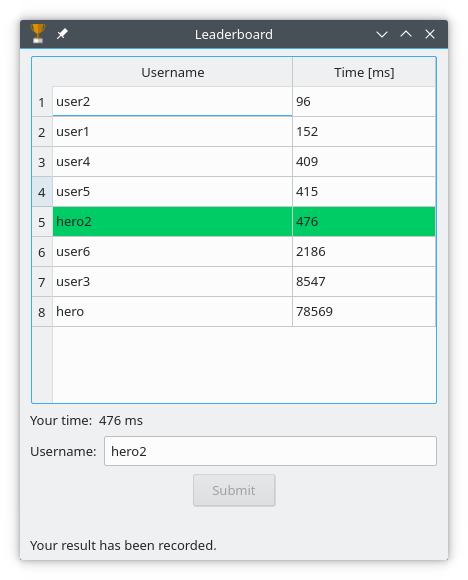
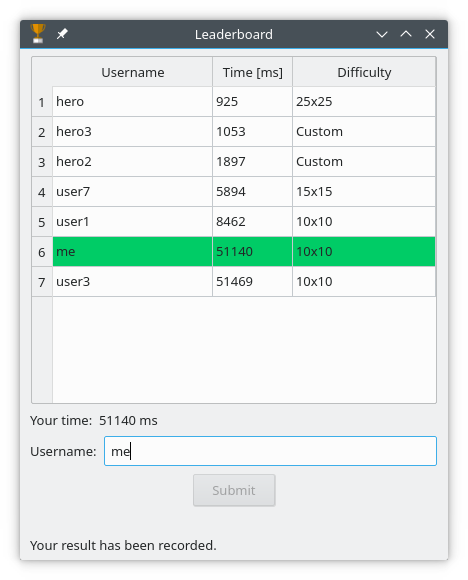
Added some enhancements to the leaderboard.

diff --git a/leaderboard.cpp b/leaderboard.cpp
@@ -8,18 +8,20 @@ LeaderBoard::LeaderBoard(const QString &path_to_file, QWidget *parent) :
     ui->setupUi(this);
     this->leader_board_file = path_to_file;
     this->error = false;
+    this->difficulty = "10x10, 10 mines";
 
-    int columnCnt = 2;
+    int columnCnt = 3;
     ui->leader_table->setColumnCount(columnCnt);
     if(!this->loadLeaderBoard(this->leader_board_file)){
         this->error = true;
     }
 
-    ui->leader_table->setHorizontalHeaderLabels(QStringList() << "Username" << "Time [ms]");
+    ui->leader_table->setHorizontalHeaderLabels(QStringList() << "Username" << "Time [ms]" << "Difficulty");
     //columns width
     int factor_ratio = ui->leader_table->width()/10;
-    ui->leader_table->setColumnWidth(0, factor_ratio*6);
+    ui->leader_table->setColumnWidth(0, factor_ratio*4);
     ui->leader_table->setColumnWidth(1, factor_ratio*2);
+    ui->leader_table->setColumnWidth(2, factor_ratio*2);
 }
 
 LeaderBoard::~LeaderBoard()
@@ -41,20 +43,22 @@ bool LeaderBoard::loadLeaderBoard(const QString &path_to_file)
     QString username;
     quint64 msec;
     txt.readLine();
+    User usr;
     while(!txt.atEnd()){
-        txt >> username >> msec;
+        txt >> usr.name >> msec >> usr.difficulty;
         username.chop(1);
-        this->leader_board.insert(msec,username);
+        this->leader_board.insert(msec,usr);
     }
-    this->leader_board.remove(0,"");
+    this->leader_board.remove(0,{"",""});
     data_file.close();
 
-    QMultiMap<quint64,QString>::const_iterator iterat = this->leader_board.constBegin();
+    QMultiMap<quint64,User>::const_iterator iterat = this->leader_board.constBegin();
     while (iterat != this->leader_board.constEnd()) {
         //qDebug() << iterat.key() << iterat.value();
         ui->leader_table->insertRow(ui->leader_table->rowCount());
-        ui->leader_table->setItem(ui->leader_table->rowCount()-1, 0, new QTableWidgetItem(iterat.value()));
+        ui->leader_table->setItem(ui->leader_table->rowCount()-1, 0, new QTableWidgetItem(iterat.value().name));
         ui->leader_table->setItem(ui->leader_table->rowCount()-1, 1, new QTableWidgetItem(QString::number(iterat.key())));
+        ui->leader_table->setItem(ui->leader_table->rowCount()-1, 2, new QTableWidgetItem(iterat.value().difficulty));
         ++iterat;
     }
     return true;
@@ -66,16 +70,18 @@ void LeaderBoard::redraw()
        ui->leader_table->removeRow(0);
     }
 
-    QMultiMap<quint64,QString>::iterator iterat = this->leader_board.begin();
+    QMultiMap<quint64,User>::iterator iterat = this->leader_board.begin();
     while (iterat != this->leader_board.end()) {
         ui->leader_table->insertRow(ui->leader_table->rowCount());
-        ui->leader_table->setItem(ui->leader_table->rowCount()-1, 0, new QTableWidgetItem(iterat.value()));
+        ui->leader_table->setItem(ui->leader_table->rowCount()-1, 0, new QTableWidgetItem(iterat.value().name));
         ui->leader_table->setItem(ui->leader_table->rowCount()-1, 1, new QTableWidgetItem(QString::number(iterat.key())));
-        if(iterat.value().endsWith("-highlight")){
-            iterat.value() = iterat.value().chopped(10);
-            ui->leader_table->item(ui->leader_table->rowCount()-1,0)->setText(iterat.value());
+        ui->leader_table->setItem(ui->leader_table->rowCount()-1, 2, new QTableWidgetItem(iterat.value().difficulty));
+        if(iterat.value().name.endsWith("-highlight")){
+            iterat.value().name = iterat.value().name.chopped(10);
+            ui->leader_table->item(ui->leader_table->rowCount()-1,0)->setText(iterat.value().name);
             ui->leader_table->item(ui->leader_table->rowCount()-1,0)->setBackgroundColor(QColor(0, 204, 102));
             ui->leader_table->item(ui->leader_table->rowCount()-1,1)->setBackgroundColor(QColor(0, 204, 102));
+            ui->leader_table->item(ui->leader_table->rowCount()-1,2)->setBackgroundColor(QColor(0, 204, 102));
 
         }
 
@@ -88,10 +94,16 @@ void LeaderBoard::setTimeTaken(quint64 time_taken)
     ui->your_time->setText(QString::number(time_taken) + " ms");
 }
 
+void LeaderBoard::setDifficulty(const QString &difficulty)
+{
+    this->difficulty = difficulty;
+}
+
 void LeaderBoard::setSubmitBtnEnabled()
 {
     ui->submit_result_button->setEnabled(true);
 }
+
 
 void LeaderBoard::on_submit_result_button_clicked()
 {
@@ -103,7 +115,7 @@ void LeaderBoard::on_submit_result_button_clicked()
         ui->statusbar->showMessage("White characters are not allowed.",5000);
         return;
     }
-    this->leader_board.insert(ui->your_time->text().chopped(3).toULongLong(),ui->username->text()+"-highlight");
+    this->leader_board.insert(ui->your_time->text().chopped(3).toULongLong(),{ui->username->text()+"-highlight",this->difficulty});
     this->redraw();
 
     QFile data_file(this->leader_board_file);
@@ -114,10 +126,10 @@ void LeaderBoard::on_submit_result_button_clicked()
         return;
     }
     QTextStream txt(&data_file);
-    txt << "# DO NOT MODIFY THIS FILE !!!\n";
-    QMultiMap<quint64,QString>::const_iterator iterat = this->leader_board.constBegin();
+    txt << "# DO NOT MODIFY THIS FILE !!!\n\n";
+    QMultiMap<quint64,User>::const_iterator iterat = this->leader_board.constBegin();
     while (iterat != this->leader_board.constEnd()) {
-        txt << iterat.value() << ", " << iterat.key() << "\n";
+        txt << iterat.value().name << " " << iterat.key() << " " << iterat.value().difficulty << "\n";
         ++iterat;
     }
     data_file.close();

diff --git a/ui_mines.h b/ui_mines.h
@@ -11,6 +11,7 @@
 
 #include <QtCore/QVariant>
 #include <QtWidgets/QApplication>
+#include <QtWidgets/QComboBox>
 #include <QtWidgets/QFrame>
 #include <QtWidgets/QGroupBox>
 #include <QtWidgets/QHBoxLayout>
@@ -48,6 +49,11 @@ public:
     QSpacerItem *horizontalSpacer_3;
     QGroupBox *config_groupbox;
     QVBoxLayout *verticalLayout_2;
+    QHBoxLayout *horizontalLayout_4;
+    QSpacerItem *horizontalSpacer_4;
+    QLabel *label;
+    QComboBox *gridsize_selector;
+    QSpacerItem *horizontalSpacer_5;
     QHBoxLayout *horizontalLayout_2;
     QSpacerItem *horizontalSpacer;
     QLabel *no_mines_label;
@@ -61,14 +67,14 @@ public:
     {
         if (Mines->objectName().isEmpty())
             Mines->setObjectName(QStringLiteral("Mines"));
-        Mines->resize(514, 743);
+        Mines->resize(514, 782);
         QSizePolicy sizePolicy(QSizePolicy::Minimum, QSizePolicy::Maximum);
         sizePolicy.setHorizontalStretch(0);
         sizePolicy.setVerticalStretch(0);
         sizePolicy.setHeightForWidth(Mines->sizePolicy().hasHeightForWidth());
         Mines->setSizePolicy(sizePolicy);
         Mines->setMinimumSize(QSize(514, 0));
-        Mines->setMaximumSize(QSize(514, 743));
+        Mines->setMaximumSize(QSize(514, 782));
         centralWidget = new QWidget(Mines);
         centralWidget->setObjectName(QStringLiteral("centralWidget"));
         horizontalLayout = new QHBoxLayout(centralWidget);
@@ -224,6 +230,36 @@ public:
         verticalLayout_2->setSpacing(6);
         verticalLayout_2->setContentsMargins(11, 11, 11, 11);
         verticalLayout_2->setObjectName(QStringLiteral("verticalLayout_2"));
+        horizontalLayout_4 = new QHBoxLayout();
+        horizontalLayout_4->setSpacing(6);
+        horizontalLayout_4->setObjectName(QStringLiteral("horizontalLayout_4"));
+        horizontalSpacer_4 = new QSpacerItem(40, 20, QSizePolicy::Expanding, QSizePolicy::Minimum);
+
+        horizontalLayout_4->addItem(horizontalSpacer_4);
+
+        label = new QLabel(config_groupbox);
+        label->setObjectName(QStringLiteral("label"));
+
+        horizontalLayout_4->addWidget(label);
+
+        gridsize_selector = new QComboBox(config_groupbox);
+        gridsize_selector->addItem(QString());
+        gridsize_selector->addItem(QString());
+        gridsize_selector->addItem(QString());
+        gridsize_selector->addItem(QString());
+        gridsize_selector->addItem(QString());
+        gridsize_selector->addItem(QString());
+        gridsize_selector->setObjectName(QStringLiteral("gridsize_selector"));
+
+        horizontalLayout_4->addWidget(gridsize_selector);
+
+        horizontalSpacer_5 = new QSpacerItem(40, 20, QSizePolicy::Expanding, QSizePolicy::Minimum);
+
+        horizontalLayout_4->addItem(horizontalSpacer_5);
+
+
+        verticalLayout_2->addLayout(horizontalLayout_4);
+
         horizontalLayout_2 = new QHBoxLayout();
         horizontalLayout_2->setSpacing(6);
         horizontalLayout_2->setObjectName(QStringLiteral("horizontalLayout_2"));
@@ -325,6 +361,14 @@ public:
         time_label->setText(QApplication::translate("Mines", "Time:", nullptr));
         time->setText(QApplication::translate("Mines", "<html><head/><body><p align=\"right\"><br/></p></body></html>", nullptr));
         config_groupbox->setTitle(QApplication::translate("Mines", "Configuration", nullptr));
+        label->setText(QApplication::translate("Mines", "Difficulty:", nullptr));
+        gridsize_selector->setItemText(0, QApplication::translate("Mines", "10x10", nullptr));
+        gridsize_selector->setItemText(1, QApplication::translate("Mines", "15x15", nullptr));
+        gridsize_selector->setItemText(2, QApplication::translate("Mines", "20x20", nullptr));
+        gridsize_selector->setItemText(3, QApplication::translate("Mines", "25x25", nullptr));
+        gridsize_selector->setItemText(4, QApplication::translate("Mines", "100x100", nullptr));
+        gridsize_selector->setItemText(5, QApplication::translate("Mines", "Custom", nullptr));
+
         no_mines_label->setText(QApplication::translate("Mines", "Number of mines:", nullptr));
         start_game_button->setText(QApplication::translate("Mines", "Start game", nullptr));
     } // retranslateUi

diff --git a/leaderboard.h b/leaderboard.h
@@ -15,6 +15,22 @@
 #include <QStatusBar>
 #include <QPushButton>
 
+typedef struct _user{
+    QString name;
+    QString difficulty;
+
+    bool operator ==(const _user &lhs)
+    {
+        if(lhs.name == this->name && lhs.difficulty == this->difficulty){
+            return true;
+        }
+        return false;
+    }
+}User;
+
+
+
+
 namespace Ui {
 class LeaderBoard;
 }
@@ -29,6 +45,7 @@ public:
     bool loadLeaderBoard(const QString&);
     void redraw(); // redraws a leaderboard table and highlights the specified row
     void setTimeTaken(quint64 time_taken);
+    void setDifficulty(const QString& difficulty);
     void setSubmitBtnEnabled();
     bool error;
 
@@ -37,9 +54,10 @@ private slots:
 
 private:
     Ui::LeaderBoard *ui;
-    QMultiMap<quint64,QString> leader_board;
+    QMultiMap<quint64,User> leader_board;
     QString leader_board_file;
     void closeEvent (QCloseEvent *event);
+    QString difficulty;
 };
 
 #endif // LEADERBOARD_H

diff --git a/mytable.cpp b/mytable.cpp
@@ -14,10 +14,11 @@ MyTable::~MyTable()
 
 }
 
-void MyTable::leaderboardDialog(quint64 time_taken)
+void MyTable::leaderboardDialog(quint64 time_taken, const QString& difficulty)
 {
     //QMessageBox::about(this,"Congratulations" ,"You won.");
     lb->setTimeTaken(time_taken);
+    lb->setDifficulty(difficulty);
     lb->setWindowTitle("Leaderboard");
     lb->setWindowIcon(QIcon(qApp->applicationDirPath() + "/leaderboard_icon.png"));
     lb->setSubmitBtnEnabled();

diff --git a/mines.cpp b/mines.cpp
@@ -272,7 +272,7 @@ void Mines::timerStopSlot()
     ui->tableWidget->timer.stop();
     this->save_time += ui->tableWidget->elap_timer.elapsed();
     ui->time->setText(QString::number(this->save_time) + " ms");
-    ui->tableWidget->leaderboardDialog(this->save_time);
+    ui->tableWidget->leaderboardDialog(this->save_time,ui->gridsize_selector->currentText());
 }
 
 void Mines::on_pause_time_button_clicked(bool checked)

diff --git a/mytable.h b/mytable.h
@@ -32,7 +32,7 @@ public:
     bool congratsShown;
     QTimer timer;
     QElapsedTimer elap_timer;
-    void leaderboardDialog(quint64 time_taken);
+    void leaderboardDialog(quint64 time_taken, const QString &difficulty);
 private slots:
     void mousePressEvent(QMouseEvent* e);
     void mouseReleaseEvent(QMouseEvent *event);

diff --git a/mines.h b/mines.h
@@ -11,6 +11,8 @@
 #include <QMessageBox>
 #include <QElapsedTimer>
 #include <QTimer>
+#include <QComboBox>
+#include <QSpinBox>
 #include <QDialog>
 
 
